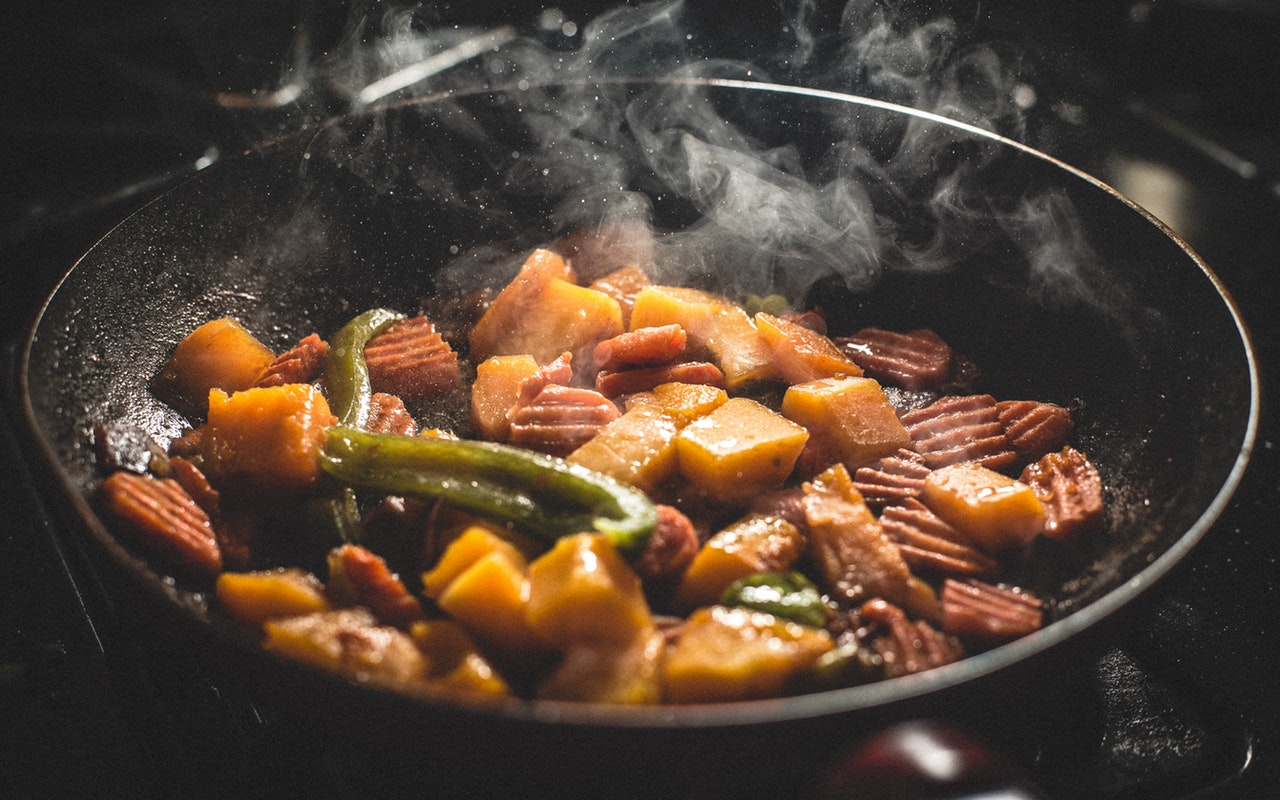
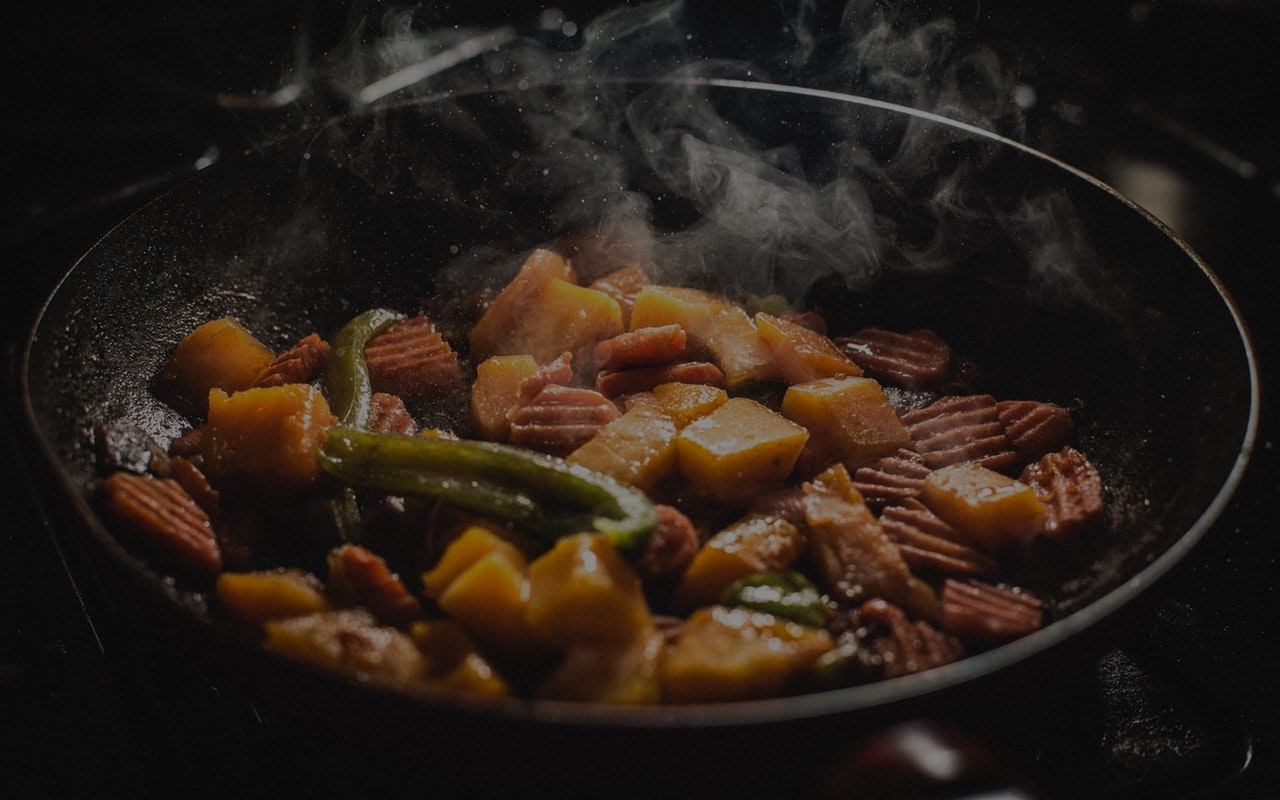
cosmetic changes

diff --git a/static/css/style.css b/static/css/style.css
@@ -31,11 +31,14 @@ header {
 
 .bootstrap-override .navbar-nav a {
     text-align: center;
-    /*padding-left: 2em;*/
-    /*padding-right: 2em;*/
-    width: 11em;
+    padding-left: 2em;
+    padding-right: 2em;
+    min-width: 9em;
+    max-width: 11em;
     color: white;
     text-decoration: underline #FF3547;
+    font-weight: 200;
+    font-family: 'Raleway', sans-serif;
     /*background-color: #FF3547;*/
 }
 
@@ -43,8 +46,6 @@ header {
     color: #FF3547;
     text-decoration: underline white;
 }
-
-
 
 .bootstrap-override .nav-bar {
     z-index: 900;
@@ -58,17 +59,32 @@ header {
     color: white;
 }
 
+/* Get rid of collapsing navbar and just have it shrink */
+
+.bootstrap-override nav button {
+    margin-top: -2em;
+}
+
 .content {
+    padding-top: 2em;
+    padding-left: 4em;
+    padding-right: 4em;
     padding-bottom: 100px;
     max-width: 80%;
     margin: auto;
     background-color: #FEFFFF;
     border-right: 10px solid lightgrey;
     border-left: 10px solid lightgrey;
+    letter-spacing: .05em;
+    font-weight: 300;
 }
 
 #site-header {
     text-align: center;
+}
+
+#site-header h3 {
+    font-family: 'Raleway', sans-serif;
 }
 
 .bootstrap-override #site-header-title h1 {
@@ -88,18 +104,23 @@ header {
     font-weight: 400;
 }
 
+.home-content .joys {
+    color: #FF3547;
+}
+
 .bootstrap-override #site-header-title {
     text-decoration: none;
 }
 
-.home-content {
-    padding-top: 2em;
-}
+/*.home-content {*/
+/*    padding: 2em 4em 0 4em;*/
+/*}*/
 
 .home-content h2 {
-    margin-bottom: 1em;
+    margin-bottom: .5em;
     text-align: center;
     font-weight: bold;
+    font-family: 'Raleway', sans-serif;
 }
 
 .home-content ul {
@@ -108,44 +129,42 @@ header {
 
 .background-darkened {
     background-color: black;
+    max-height: 500px;
 }
 
 .home-content .background-darkened {
     margin-bottom: 2em;
 }
 
-/* Parallax tutorial https://www.w3schools.com/howto/howto_css_parallax.asp */
-.bgimg1 {
-    background-image: url("../img/skillet.jpeg");
-    min-height: 500px;
+.img-container {
+    position: relative;
+    text-align: center;
 }
 
-.bgimg1, .bgimg2 {
-    opacity: .75;
-    background-attachment: fixed;
-    background-position: center;
-    background-repeat: no-repeat;
-    background-size: cover;
+.bgimg1 {
+    max-height: 500px;
+    padding: .25em;
+    border: solid 1px lightgrey;
+    border-radius: 1%;
+    display: block;
+    margin: 1em auto;
 }
 
 .caption {
     position: absolute;
     text-align: center;
-    left: 0;
-    top: calc(50% - 1em);
+    left: 50%;
+    top: 50%;
     width: 100%;
     color: white;
-    font-size: 2em;
+    font-size: 3vw;
     font-weight: bold;
     letter-spacing: .25em;
-}
-
-.recipe-grid, .home-content {
-    max-width: 960px;
+    transform: translate(-50%, -50%);
 }
 
 .recipe-grid-item {
-    padding: 40px;
+    padding: 1em;
     justify-content: center;
 }
 
@@ -161,8 +180,12 @@ header {
 by the user, so the h4 was given position: relative and ahigh z-index to force it to ignore its
 sibling's opacity change.
 https://stackoverflow.com/questions/19638151/css-opacity-affecting-sibling-image-opacity */
-.recipe-grid-item img:hover {
+.recipe-grid-item a:hover img {
     opacity: 0.5;
+}
+
+.recipe-grid-item a:hover h4 {
+    color: #FF3547;
 }
 
 .recipe-grid-item h4 {
@@ -171,12 +194,14 @@ https://stackoverflow.com/questions/19638151/css-opacity-affecting-sibling-image
     margin-bottom: 0;
     padding-top: .35em;
     color: white;
-    font-size: 1.5em;
-    font-weight: bold;
+    /*font-size: 1.5em;*/
+    font-size: 2vw;
+    font-weight: 200;
     position: relative;
     z-index: 100;
     background-color: rgba(0, 0, 0, .5);
     height: 2em;
+    font-family: 'Raleway', sans-serif;
 }
 
 #footer-main {
@@ -221,6 +246,10 @@ https://stackoverflow.com/questions/19638151/css-opacity-affecting-sibling-image
     font-weight: 300;
 }
 
+#footer-bottom a:hover {
+    color: #FF3547;
+}
+
 @media only screen and (max-width: 767px) {
     #footer-main ul {
         list-style-type: none;
@@ -233,22 +262,27 @@ https://stackoverflow.com/questions/19638151/css-opacity-affecting-sibling-image
 @media only screen and (max-width: 576px) {
     .bootstrap-override .navbar-nav a {
         width: 100%;
+        text-decoration: none;
+        display: inline-block;
+        margin: auto;
     }
     
     .bootstrap-override .navbar-nav a:not(:last-child) {
         border: none;
     }
     
-    .bootstrap-override .navbar-nav a {
-        text-decoration: none;
-    }
-    
     .content {
         max-width: 100%;
         border: none;
+        padding-left: .2em;
+        padding-right: .2em;
     }
     
     .bootstrap-override #site-header-title h1 {
         font-size: 2rem !important;
+    }
+    
+    .joys {
+        color: #FF3547
     }
 }

diff --git a/myapp/templates/home.html b/myapp/templates/home.html
@@ -23,9 +23,8 @@ Home
             It is through cooking that we explore an integral part of other cultures, and in doing so create
             delicious dishes to please the palatte.
         </p>
-        <div class="background-darkened">
-            <div class="bgimg1">
-            </div>
+        <div class="img-container">
+            <img class="bgimg1 img-fluid" src="static/img/skillet.jpeg" alt="skillet">
             <div class="caption">
                 FOOD AS CULTURE
             </div>
@@ -40,7 +39,6 @@ Home
             Some will turn out to be completely unappealing to your palatte.<br>
             <br>
             But all will be successes in the mission to introduce you to new culinary viewpoints!<br>
-            <br>
         </p>
         <p>
             Regardless of each dish's outcome with you and yours, we hope you will continue on in your exploration

diff --git a/myapp/templates/base.html b/myapp/templates/base.html
@@ -5,7 +5,7 @@
         <meta charset="utf-8">
         <meta name="viewport" content="width=device-width, initial-scale=1.0, shrink-to-fit=no">
         <link rel="stylesheet" href="https://maxcdn.bootstrapcdn.com/bootstrap/4.0.0/css/bootstrap.min.css" integrity="sha384-Gn5384xqQ1aoWXA+058RXPxPg6fy4IWvTNh0E263XmFcJlSAwiGgFAW/dAiS6JXm" crossorigin="anonymous">
-        <link href="https://fonts.googleapis.com/css?family=IBM+Plex+Mono|Sacramento|Open+Sans:300,400|Raleway" rel="stylesheet">
+        <link href="https://fonts.googleapis.com/css?family=IBM+Plex+Mono|Sacramento|Open+Sans:300,400|Raleway:200,400,700" rel="stylesheet">
         <link rel="stylesheet" href="static/css/style.css" type="text/css">
     </head>
     <body class="bootstrap-override">
